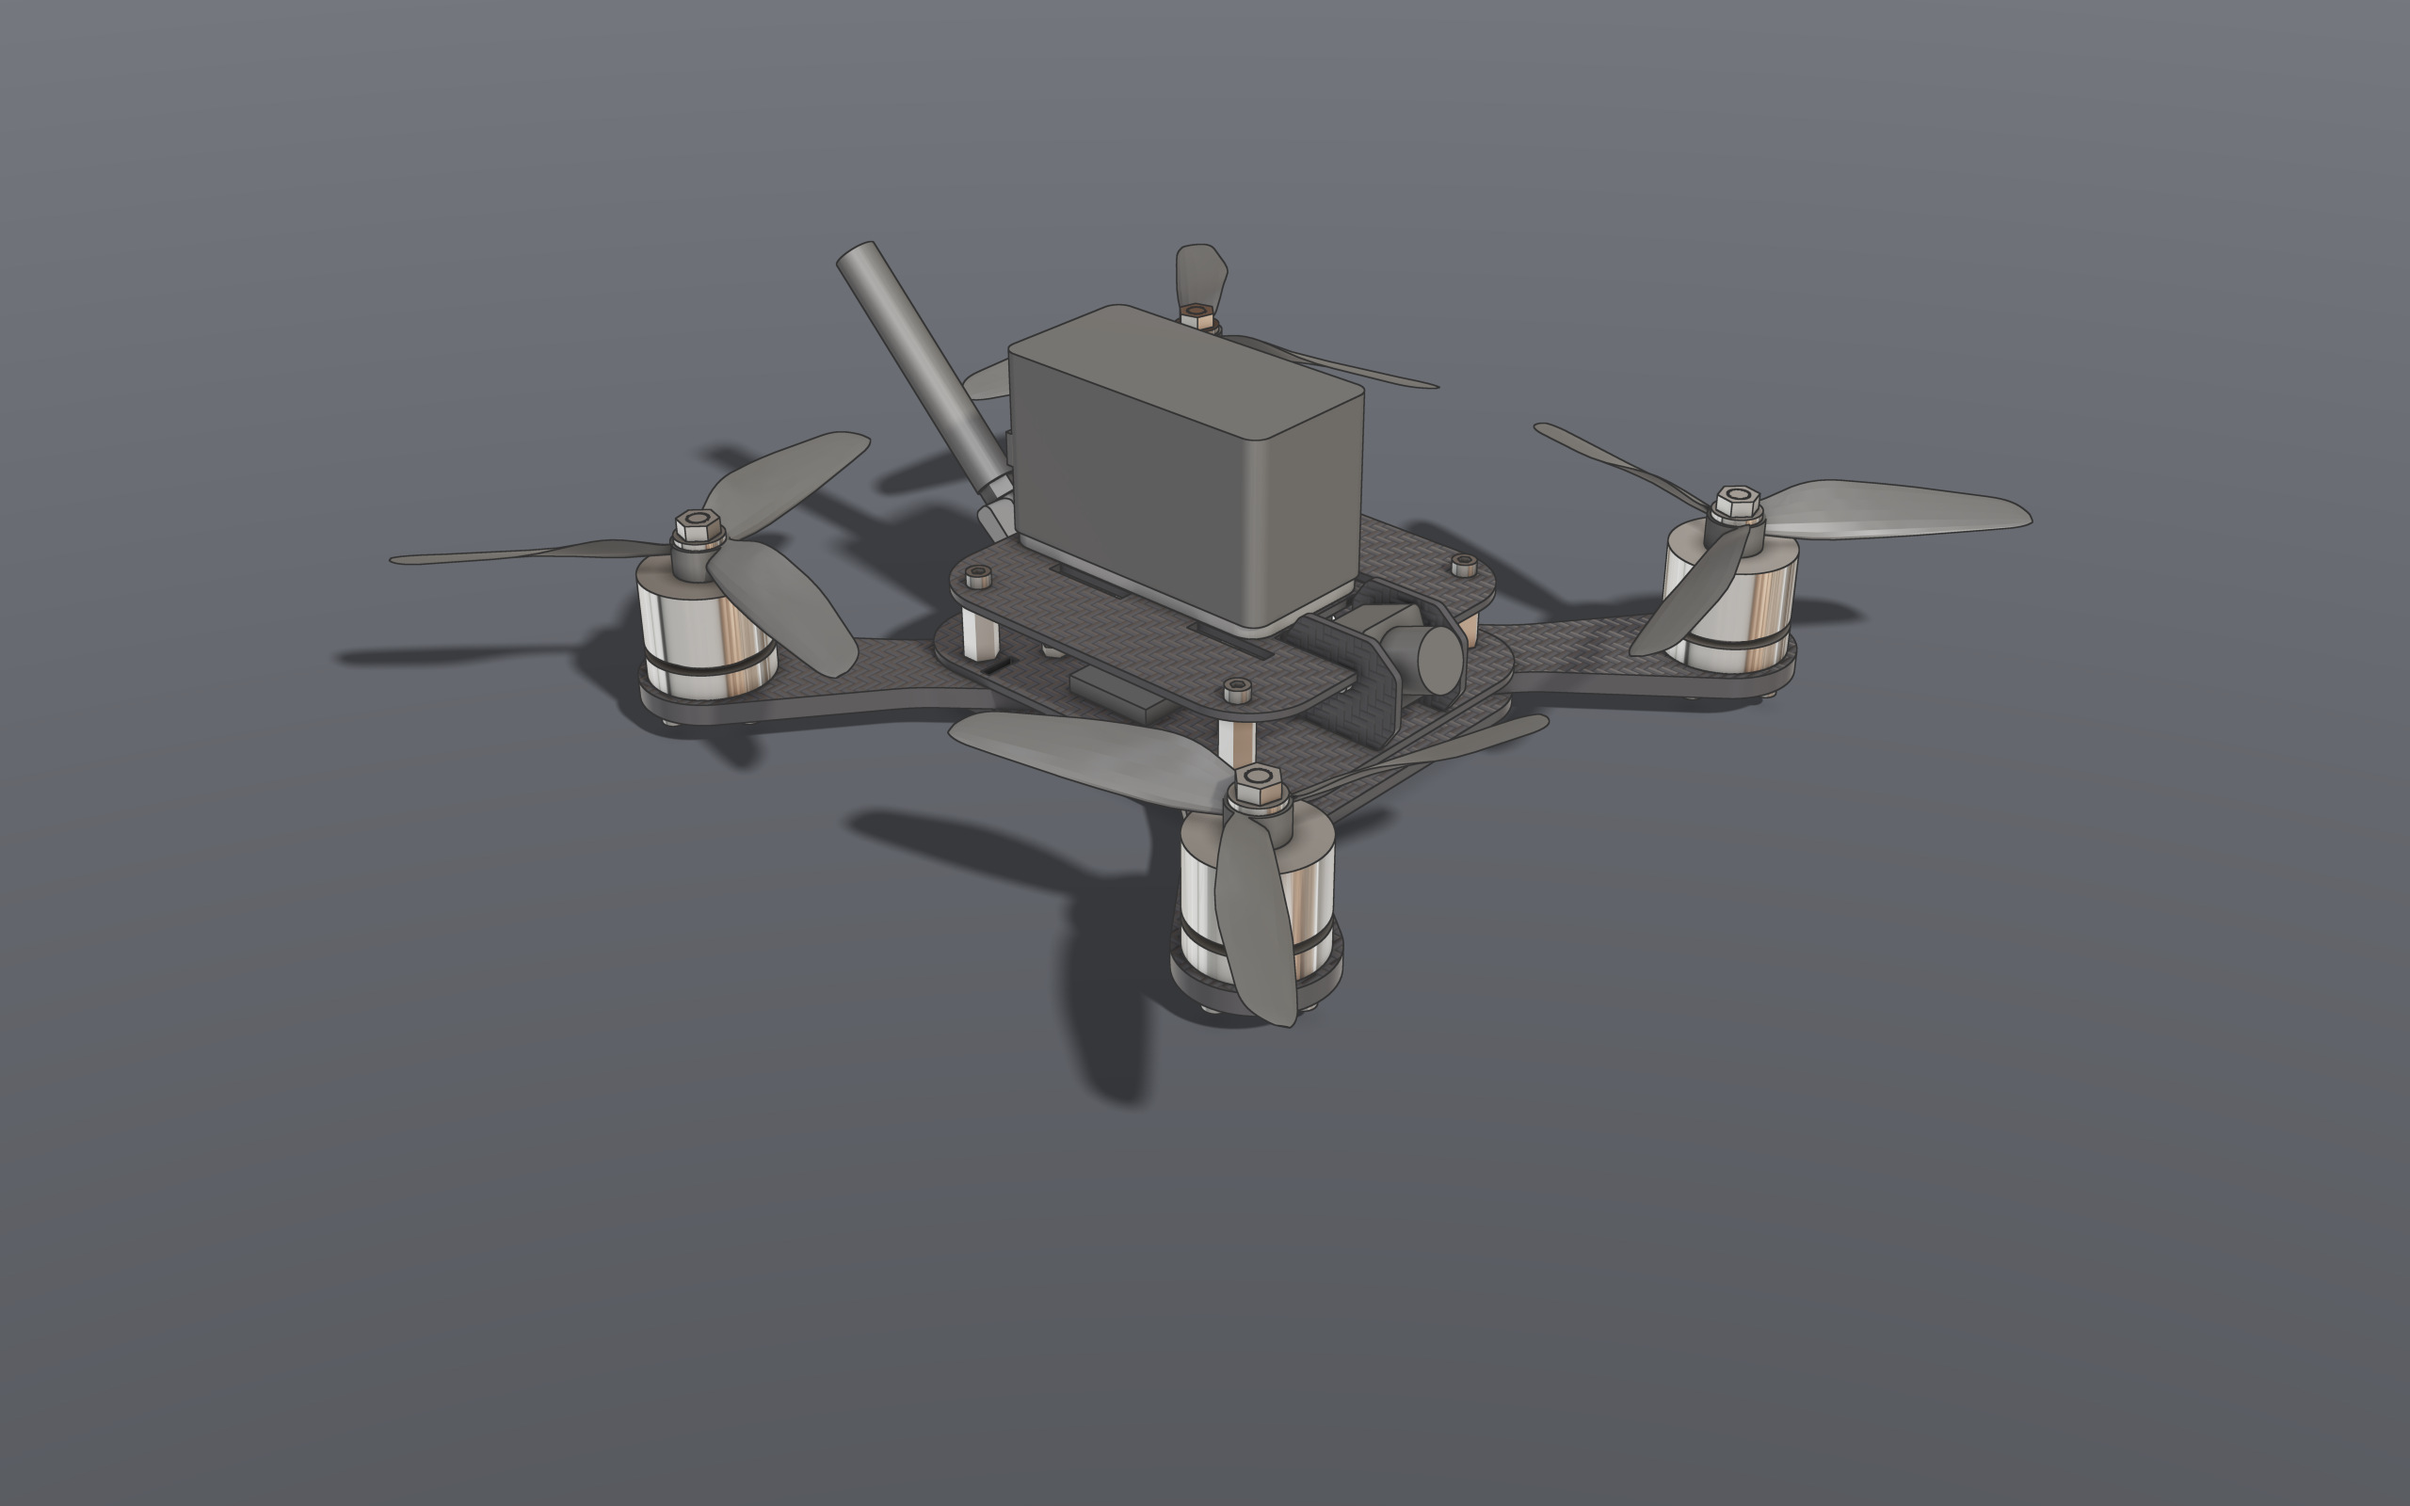
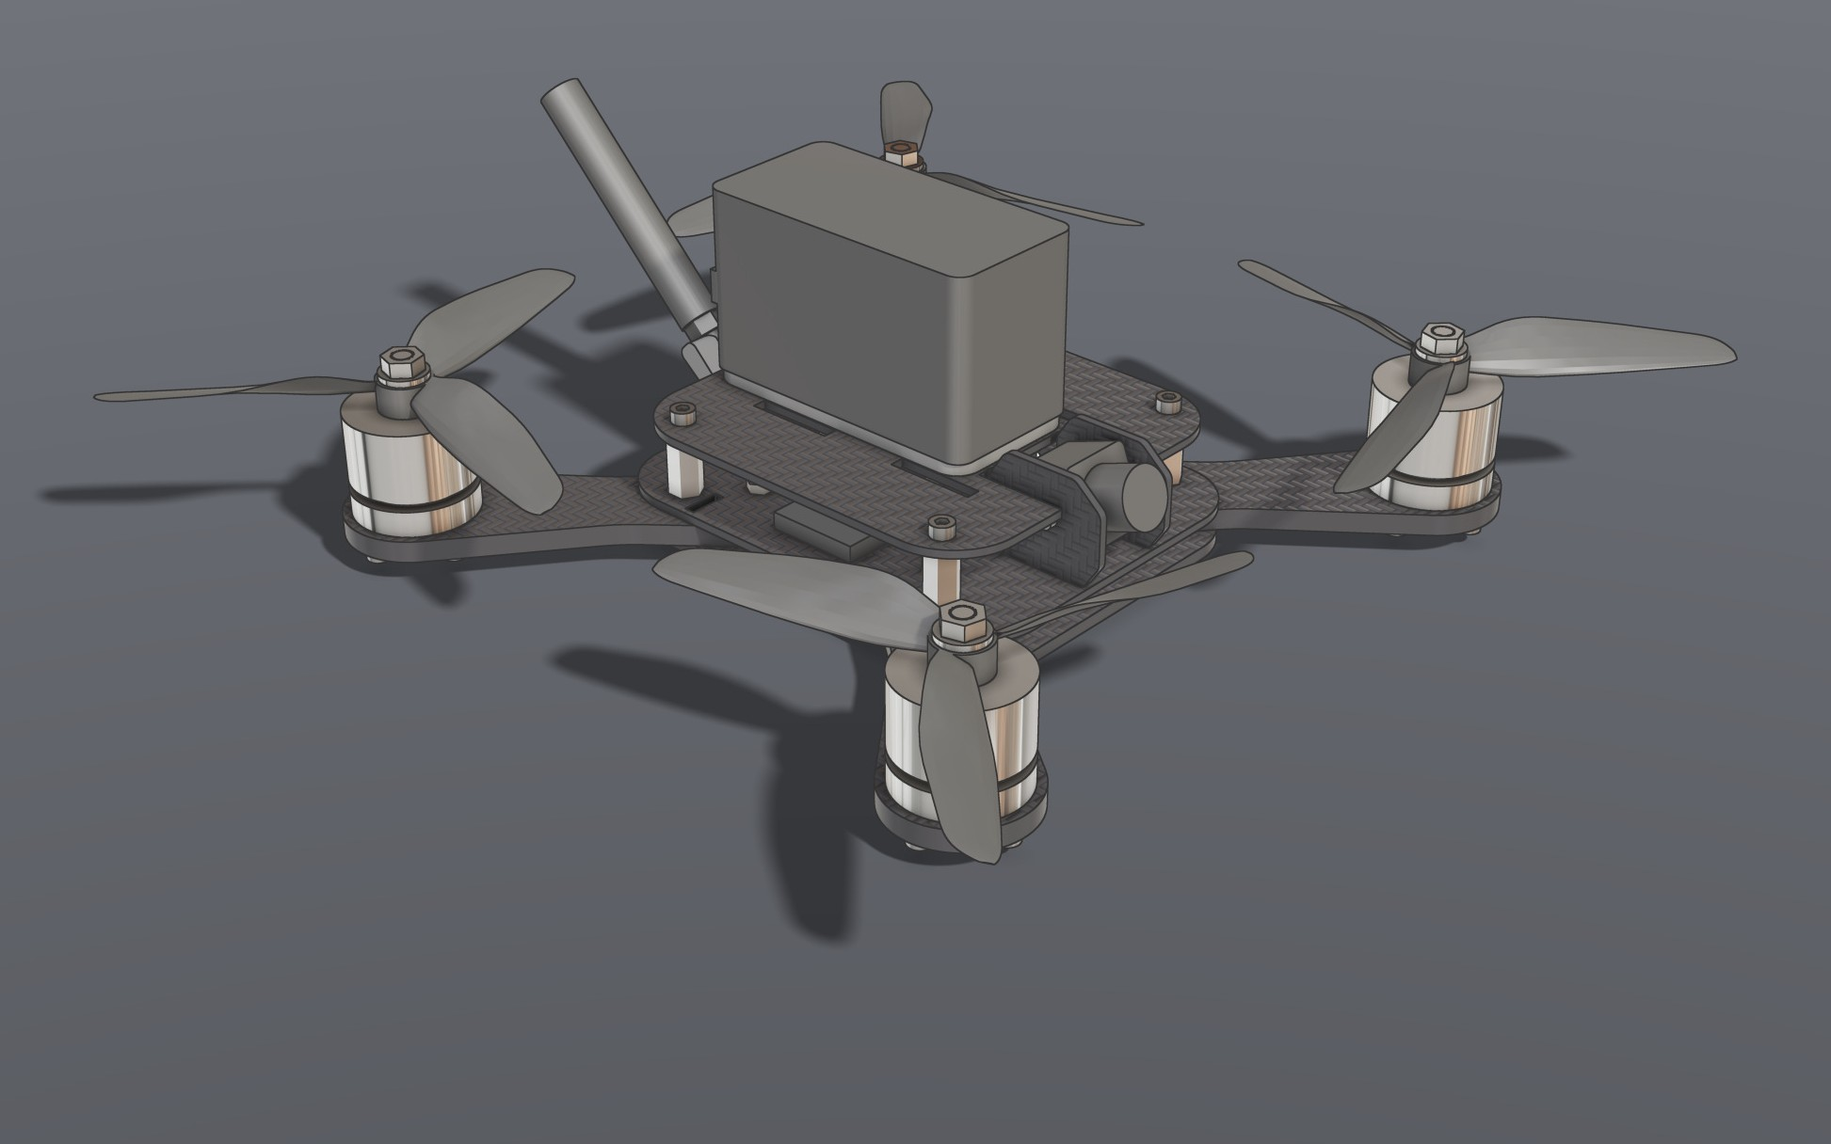
docs(readme): the watch beside the engine, and the engine and drone closer in

diff --git a/README.md b/README.md
@@ -23,13 +23,13 @@ See [docs/README.md](docs/README.md) for how each part of the program works, and
 
 Every model here is built by a generator — an ordinary Python program driving
 the same API the GUI and an LLM assistant use. The stills are Loböle's own
-path tracer; the animation is its motion-video export. See
+path tracer. See
 [generators/README.md](generators/README.md) for all of them.
 
 | | |
 |:---:|:---:|
-| [![OM615 diesel with its injection pump](docs/gallery/om615-engine.jpg)](generators/om615) | [![OM615 diesel turning over, in section](docs/gallery/om615-motion.gif)](generators/om615) |
-| **OM615 diesel** — every part down to the bearing shells, with its Bosch injection pump chained to the crank and timed | **Two revolutions, in section** — one crank drives the pistons and the valve train, clash-checked all the way round |
+| [![OM615 diesel with its injection pump](docs/gallery/om615-engine.jpg)](generators/om615) | [![Automatic watch](docs/gallery/automatic-watch.jpg)](generators/watch) |
+| **OM615 diesel** — every part down to the bearing shells, with its Bosch injection pump chained to the crank and timed | **Automatic watch** — a 3 Hz self-winding movement behind the dial: lever escapement, rotor winding, keyless works |
 | [![Bicycle](docs/gallery/bicycle.jpg)](generators/bike) | [![FPV quadcopter](docs/gallery/fpv-drone.jpg)](generators/fpv_drone) |
 | **Bicycle** — modelled from photographs: frame, wheels with laced spokes, chain drive | **5-inch FPV quadcopter** — 91 occurrences, fitted fasteners, FEM on the arms |
 | [![The Loböle mark branded into a pine log end](docs/gallery/lobole-log-end.jpg)](generators/logo) | [![The Loböle icon as a part](docs/gallery/lobole-badge.jpg)](generators/logo) |
